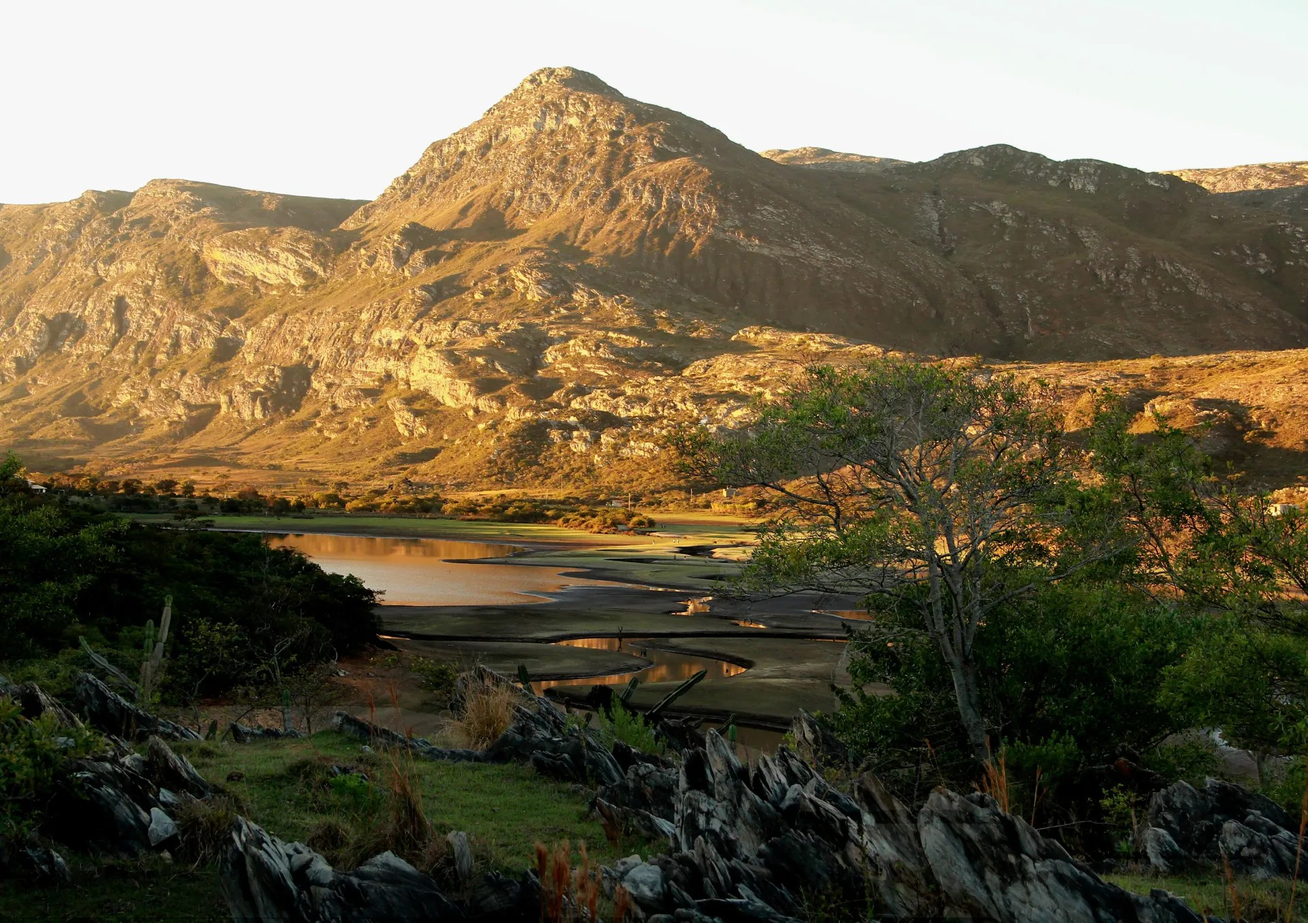
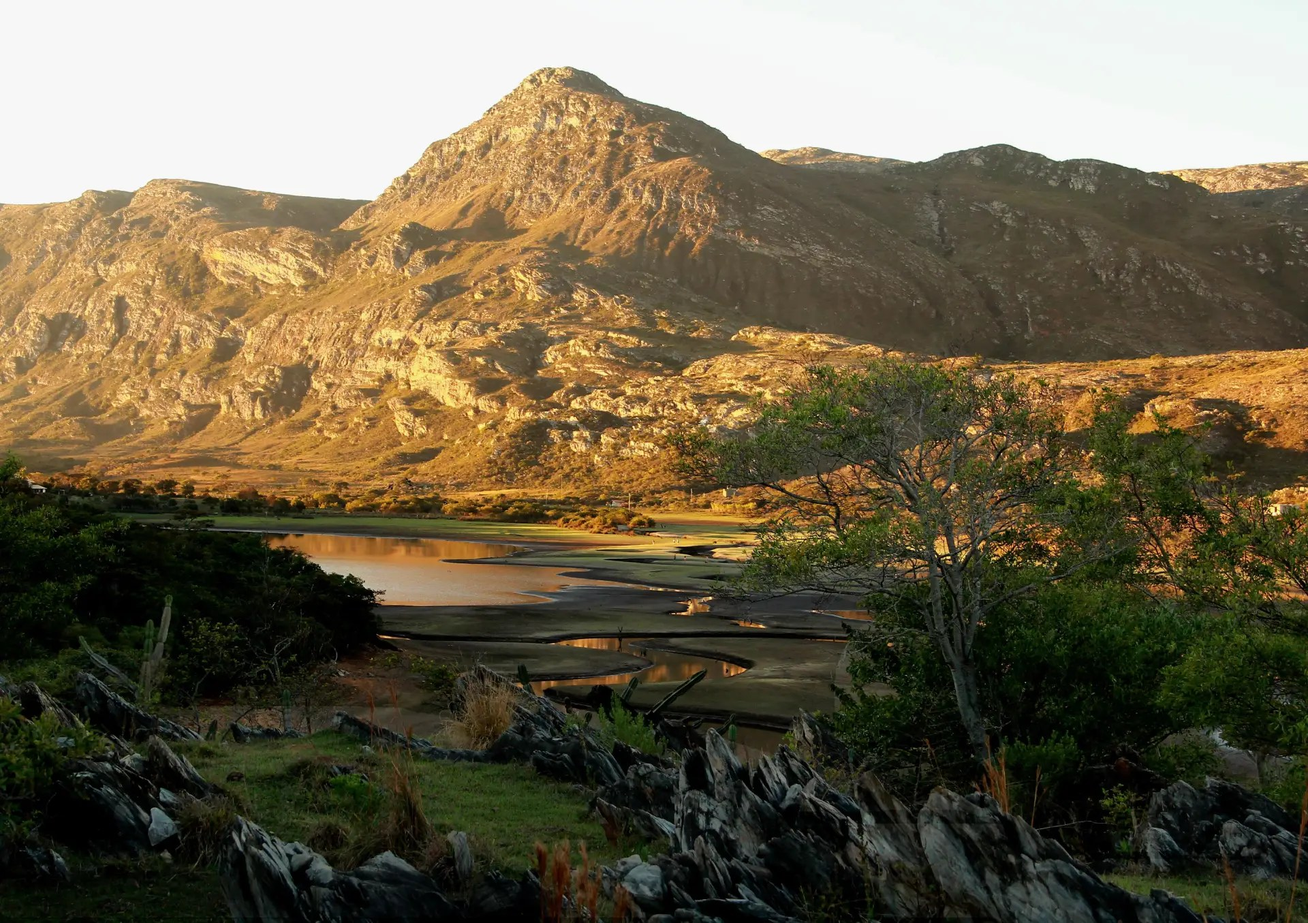
Faixa da Lapinha com a nova foto do pico e da represa ao entardecer (1920x1355)
Claude-Session: https://claude.ai/code/session_01BLoLdSSSjUZ36GzzASLwuS

diff --git a/site/index.html b/site/index.html
@@ -889,7 +889,7 @@
   <!-- figura full-width (≡ wp-block-image > figure.aligncenter.size-full) -->
   <figure class="sx-figure sx-figure--foto">
     <img class="sx-foto"
-      src="assets/images/lapinha-da-serra.jpg?v=20261127l"
+      src="assets/images/lapinha-da-serra.jpg?v=20261127m"
       alt="Lapinha da Serra ao entardecer" width="1920" height="1355"
       loading="lazy"
     />
